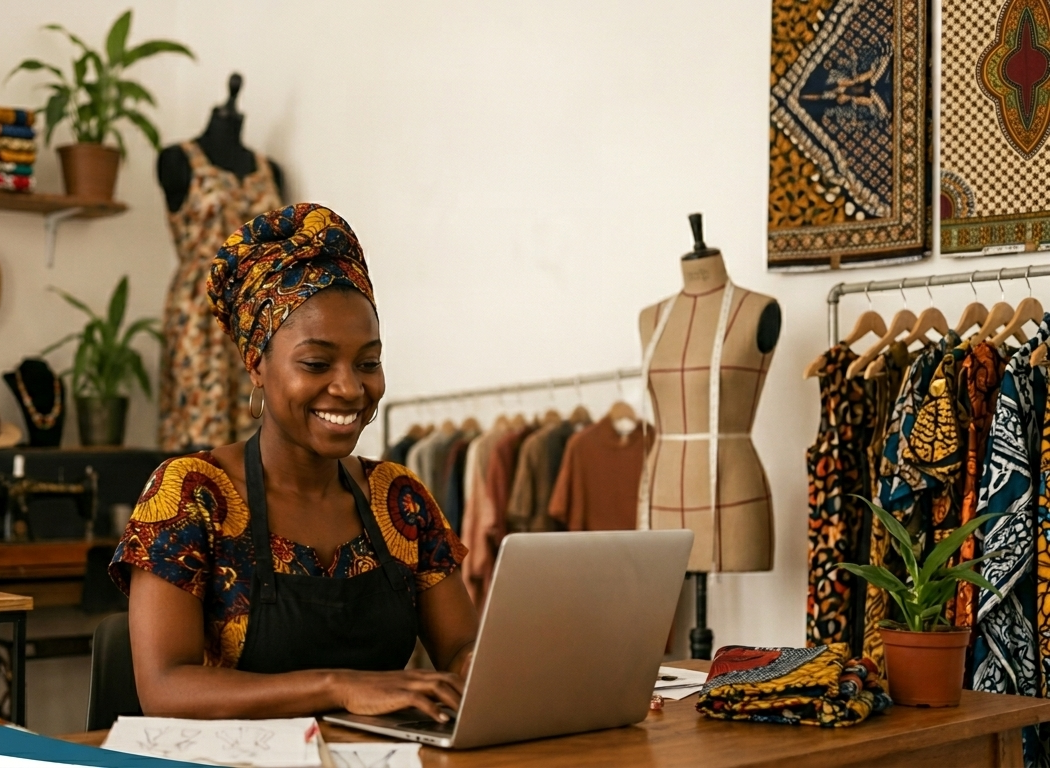
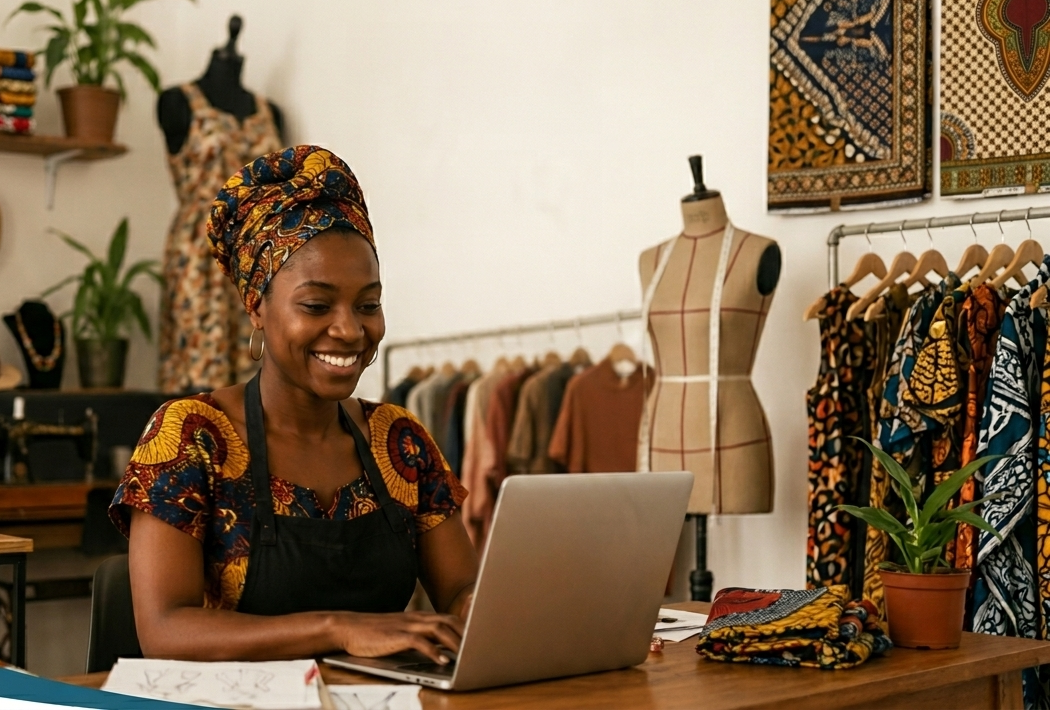
feat(auth): add terms and conditions and privacy policy links to registration screen

diff --git a/apps/mobile-app/lib/features/dashboard/presentation/screens/dashboard_screen.dart b/apps/mobile-app/lib/features/dashboard/presentation/screens/dashboard_screen.dart
@@ -183,7 +183,7 @@ class _DashboardScreenState extends ConsumerState<DashboardScreen> {
               return SingleChildScrollView(
                 padding: EdgeInsets.fromLTRB(
                   20,
-                  MediaQuery.of(context).padding.top + kToolbarHeight - 2,
+                  MediaQuery.of(context).padding.top + 8,
                   20,
                   32,
                 ),
@@ -965,95 +965,84 @@ class _ModuleGrid extends StatelessWidget {
 
   @override
   Widget build(BuildContext context) {
-    if (!showHeavyContent) {
-      return GridView.builder(
-        shrinkWrap: true,
-        physics: const NeverScrollableScrollPhysics(),
-        gridDelegate: const SliverGridDelegateWithFixedCrossAxisCount(
-          crossAxisCount: 3,
-          mainAxisSpacing: 10,
-          crossAxisSpacing: 10,
-          childAspectRatio: 1.05,
-        ),
-        itemCount: 6,
-        itemBuilder: (context, i) => const ShimmerBox(
-          height: 90,
-          borderRadius: BorderRadius.all(Radius.circular(14)),
-        ),
-      );
-    }
+    final itemCount = showHeavyContent ? _modules.length : 6;
 
-    return GridView.builder(
-      shrinkWrap: true,
-      physics: const NeverScrollableScrollPhysics(),
-      gridDelegate: const SliverGridDelegateWithFixedCrossAxisCount(
-        crossAxisCount: 3,
-        mainAxisSpacing: 10,
-        crossAxisSpacing: 10,
-        childAspectRatio: 0.98,
-      ),
-      itemCount: _modules.length,
-      itemBuilder: (context, index) {
-        final module = _modules[index];
-        final label = _tr(module.labelEn, module.labelSw);
-        return Material(
-          color: Colors.transparent,
-          child: InkWell(
-            onTap: () {
-              if (module.route == AppRouter.debtPath) {
-                _openDebtPanel(context);
-                return;
-              }
-              context.go(module.route);
-            },
-            borderRadius: BorderRadius.circular(16),
-            child: Ink(
-              decoration: BoxDecoration(
-                color: AppColors.surface,
+    return SizedBox(
+      height: 108,
+      child: ListView.separated(
+        scrollDirection: Axis.horizontal,
+        physics: const BouncingScrollPhysics(),
+        itemCount: itemCount,
+        separatorBuilder: (context, index) => const SizedBox(width: 10),
+        itemBuilder: (context, index) {
+          if (!showHeavyContent) {
+            return const _HorizontalModuleSkeleton();
+          }
+
+          final module = _modules[index];
+          final label = _tr(module.labelEn, module.labelSw);
+          return SizedBox(
+            width: 106,
+            child: Material(
+              color: Colors.transparent,
+              child: InkWell(
+                onTap: () {
+                  if (module.route == AppRouter.debtPath) {
+                    _openDebtPanel(context);
+                    return;
+                  }
+                  context.go(module.route);
+                },
                 borderRadius: BorderRadius.circular(16),
-                border: Border.all(color: AppColors.border),
-                boxShadow: [
-                  BoxShadow(
-                    color: module.color.withValues(alpha: 0.05),
-                    blurRadius: 8,
-                    offset: const Offset(0, 2),
+                child: Ink(
+                  decoration: BoxDecoration(
+                    color: AppColors.surface,
+                    borderRadius: BorderRadius.circular(16),
+                    border: Border.all(color: AppColors.border),
+                    boxShadow: [
+                      BoxShadow(
+                        color: module.color.withValues(alpha: 0.05),
+                        blurRadius: 8,
+                        offset: const Offset(0, 2),
+                      ),
+                    ],
                   ),
-                ],
-              ),
-              child: Padding(
-                padding: const EdgeInsets.all(12),
-                child: Column(
-                  crossAxisAlignment: CrossAxisAlignment.start,
-                  mainAxisAlignment: MainAxisAlignment.spaceBetween,
-                  children: [
-                    Container(
-                      width: 36,
-                      height: 36,
-                      decoration: BoxDecoration(
-                        color: module.color.withValues(alpha: 0.1),
-                        borderRadius: BorderRadius.circular(10),
-                        border: Border.all(color: module.color.withValues(alpha: 0.15)),
-                      ),
-                      child: Icon(module.icon, size: 18, color: module.color),
+                  child: Padding(
+                    padding: const EdgeInsets.all(12),
+                    child: Column(
+                      crossAxisAlignment: CrossAxisAlignment.start,
+                      mainAxisAlignment: MainAxisAlignment.spaceBetween,
+                      children: [
+                        Container(
+                          width: 36,
+                          height: 36,
+                          decoration: BoxDecoration(
+                            color: module.color.withValues(alpha: 0.1),
+                            borderRadius: BorderRadius.circular(10),
+                            border: Border.all(color: module.color.withValues(alpha: 0.15)),
+                          ),
+                          child: Icon(module.icon, size: 18, color: module.color),
+                        ),
+                        Text(
+                          label,
+                          maxLines: 2,
+                          overflow: TextOverflow.ellipsis,
+                          style: TextStyle(
+                            color: AppColors.secondary.withValues(alpha: 0.85),
+                            fontSize: 11,
+                            fontWeight: FontWeight.w700,
+                            height: 1.2,
+                          ),
+                        ),
+                      ],
                     ),
-                    Text(
-                      label,
-                      maxLines: 2,
-                      overflow: TextOverflow.ellipsis,
-                      style: TextStyle(
-                        color: AppColors.secondary.withValues(alpha: 0.85),
-                        fontSize: 11,
-                        fontWeight: FontWeight.w700,
-                        height: 1.3,
-                      ),
-                    ),
-                  ],
+                  ),
                 ),
               ),
             ),
-          ),
-        );
-      },
+          );
+        },
+      ),
     );
   }
 
@@ -1074,6 +1063,21 @@ class _ModuleGrid extends StatelessWidget {
           ),
         );
       },
+    );
+  }
+}
+
+class _HorizontalModuleSkeleton extends StatelessWidget {
+  const _HorizontalModuleSkeleton();
+
+  @override
+  Widget build(BuildContext context) {
+    return const SizedBox(
+      width: 106,
+      child: ShimmerBox(
+        height: 108,
+        borderRadius: BorderRadius.all(Radius.circular(16)),
+      ),
     );
   }
 }

diff --git a/apps/mobile-app/lib/features/auth/presentation/screens/register_screen.dart b/apps/mobile-app/lib/features/auth/presentation/screens/register_screen.dart
@@ -1,5 +1,6 @@
 import 'package:flutter/material.dart';
 import 'package:flutter/services.dart';
+import 'package:flutter/gestures.dart';
 import 'dart:async';
 import 'dart:io';
 import 'package:go_router/go_router.dart';
@@ -16,6 +17,8 @@ import '../../../../config/routing.dart';
 import '../../../../core/services/default_context_routing_service.dart';
 import '../../../../core/services/localization_service.dart';
 import '../utils/pin_auth_password.dart';
+import '../widgets/privacy_policy.dart';
+import '../widgets/terms_and_conditions.dart';
 import '../../../../core/services/lookup_service.dart';
 
 import 'package:cloud_firestore/cloud_firestore.dart';
@@ -106,6 +109,18 @@ class _RegisterScreenState extends State<RegisterScreen> {
     );
     final uri = Uri.parse('https://wa.me/255653520829?text=$message');
     await launchUrl(uri, mode: LaunchMode.externalApplication);
+  }
+
+  void _openTermsAndConditions() {
+    Navigator.of(
+      context,
+    ).push(MaterialPageRoute(builder: (_) => const TermsAndConditionsPage()));
+  }
+
+  void _openPrivacyPolicy() {
+    Navigator.of(
+      context,
+    ).push(MaterialPageRoute(builder: (_) => const PrivacyPolicyPage()));
   }
 
   String _normalizeLocalPhone(String input) {
@@ -1004,6 +1019,57 @@ class _RegisterScreenState extends State<RegisterScreen> {
                           ),
                         ),
                         const SizedBox(height: 24),
+                        Center(
+                          child: RichText(
+                            textAlign: TextAlign.center,
+                            text: TextSpan(
+                              style: GoogleFonts.poppins(
+                                color: textSecondary,
+                                fontSize: 12,
+                                height: 1.4,
+                                fontWeight: FontWeight.w500,
+                              ),
+                              children: [
+                                TextSpan(
+                                  text: _tr(
+                                    'By registering, you agree to the ',
+                                    'Kwa kusajili, unakubali ',
+                                  ),
+                                ),
+                                TextSpan(
+                                  text: _tr(
+                                    'User Terms and Conditions',
+                                    'Sheria na Masharti ya Mtumiaji',
+                                  ),
+                                  style: GoogleFonts.poppins(
+                                    color: const Color(0xFFFFC107),
+                                    fontSize: 12,
+                                    height: 1.4,
+                                    fontWeight: FontWeight.w700,
+                                  ),
+                                  recognizer: TapGestureRecognizer()
+                                    ..onTap = _openTermsAndConditions,
+                                ),
+                                TextSpan(text: _tr(' and ', ' na ')),
+                                TextSpan(
+                                  text: _tr(
+                                    'Privacy Policy.',
+                                    'Sera ya Faragha.',
+                                  ),
+                                  style: GoogleFonts.poppins(
+                                    color: const Color(0xFFFFC107),
+                                    fontSize: 12,
+                                    height: 1.4,
+                                    fontWeight: FontWeight.w700,
+                                  ),
+                                  recognizer: TapGestureRecognizer()
+                                    ..onTap = _openPrivacyPolicy,
+                                ),
+                              ],
+                            ),
+                          ),
+                        ),
+                        const SizedBox(height: 12),
                         // Register button
                         SizedBox(
                           width: double.infinity,
